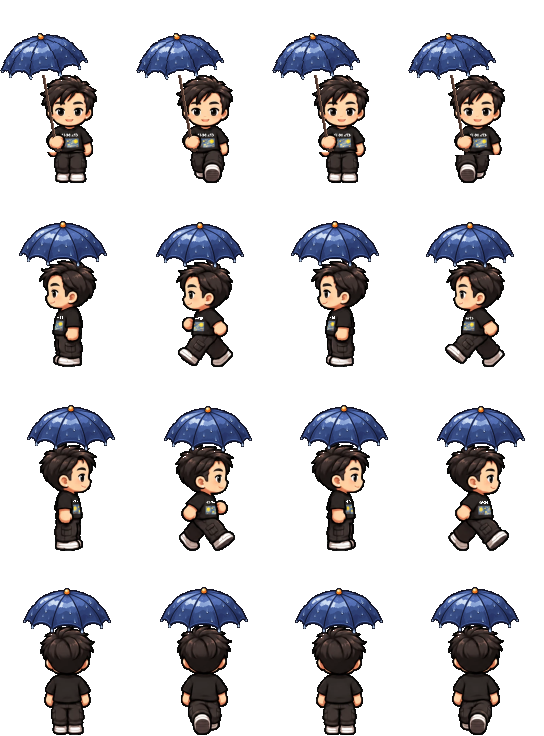
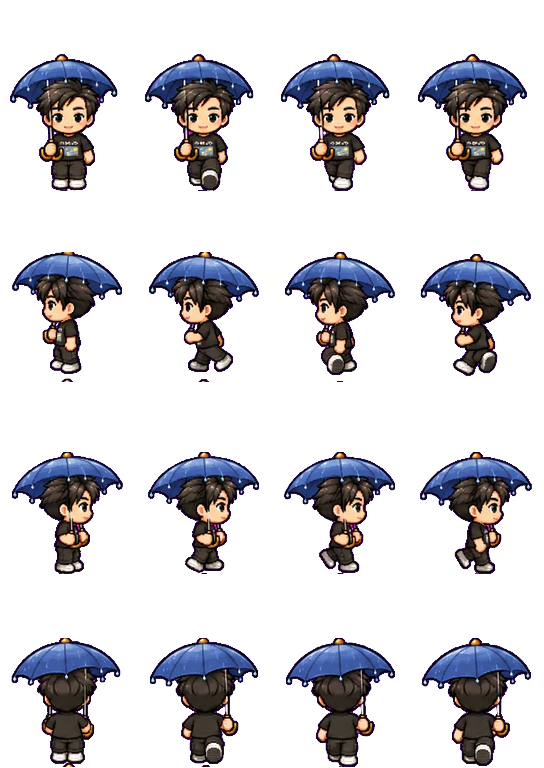
Guarda-chuva com a arte nova da Bella e do Weng; beijo de branco aguardando arte
- bella/weng-casual-umb: folhas desenhadas (fundo verde/magenta) importadas com
  scripts/import-umbrella-sheet.py: fundo removido, bordas limpas, mesma escala dos sprites
  normais, pés na mesma linha, quadros 136x192 na ordem frente/esquerda/direita/costas
- tira o gerador antigo de guarda-chuva e os sprites de beijo de branco montados por script;
  os nomes bella/weng-kiss-branco ficam reservados (entram quando a arte chegar)

Claude-Session: https://claude.ai/code/session_01PDyLU6Huw5amytFREh1vA2

diff --git a/src/config/assetManifest.ts b/src/config/assetManifest.ts
@@ -43,8 +43,8 @@ export const ASSETS: AssetEntry[] = [
   char('CHAR-017', 'bella-praia', 'characters/bella-praia.png', 136),
   char('CHAR-018', 'bella-branco', 'characters/bella-branco.png', 136),
   // segurando o guarda-chuva (chuva do primeiro encontro): quadros mais altos, a cobertura cabe em cima
-  { id: 'CHAR-019', key: 'bella-casual-umb', file: 'assets/characters/bella-casual-umb.png', kind: 'spritesheet', frameWidth: 136, frameHeight: 184 },
-  { id: 'CHAR-020', key: 'weng-casual-umb', file: 'assets/characters/weng-casual-umb.png', kind: 'spritesheet', frameWidth: 136, frameHeight: 184 },
+  { id: 'CHAR-019', key: 'bella-casual-umb', file: 'assets/characters/bella-casual-umb.png', kind: 'spritesheet', frameWidth: 136, frameHeight: 192 },
+  { id: 'CHAR-020', key: 'weng-casual-umb', file: 'assets/characters/weng-casual-umb.png', kind: 'spritesheet', frameWidth: 136, frameHeight: 192 },
   // Sentados (2 quadros: olhos abertos / fechados)
   { id: 'CHAR-031', key: 'bella-sit', file: 'assets/characters/bella-sit.png', kind: 'spritesheet', frameWidth: 136, frameHeight: 136 },
   { id: 'CHAR-032', key: 'weng-sit', file: 'assets/characters/weng-sit.png', kind: 'spritesheet', frameWidth: 136, frameHeight: 136 },
@@ -200,9 +200,8 @@ export const ASSETS: AssetEntry[] = [
   ),
   { id: 'CHAR-K1', key: 'bella-kiss', file: 'assets/characters/bella-kiss.png', kind: 'image' },
   { id: 'CHAR-K2', key: 'weng-kiss', file: 'assets/characters/weng-kiss.png', kind: 'image' },
-  // olhos fechados com a roupa branca (virada em Cabo Frio): scripts/make-kiss-outfit.py
-  { id: 'CHAR-K3', key: 'bella-kiss-branco', file: 'assets/characters/bella-kiss-branco.png', kind: 'image' },
-  { id: 'CHAR-K4', key: 'weng-kiss-branco', file: 'assets/characters/weng-kiss-branco.png', kind: 'image' },
+  // olhos fechados com a roupa branca (virada em Cabo Frio): entram quando a arte chegar
+  ...(['bella', 'weng'] as const).map((w, i): AssetEntry => ({ id: `CHAR-K${3 + i}`, key: `${w}-kiss-branco`, file: `assets/characters/${w}-kiss-branco.png`, kind: 'image' })),
   { id: 'OBJ-040', key: 'rua-carro-vermelho', file: 'assets/objects/rua-carro-vermelho.png', kind: 'image' },
   { id: 'OBJ-030', key: 'prop-umbrella-stand', file: 'assets/objects/umbrella-stand.png', kind: 'image' },
   { id: 'OBJ-031', key: 'prop-umbrella-stand-empty', file: 'assets/objects/umbrella-stand-empty.png', kind: 'image' },

diff --git a/scripts/import-umbrella-sheet.py b/scripts/import-umbrella-sheet.py
@@ -1,0 +1,92 @@
+"""Importa uma folha "segurando guarda-chuva" desenhada à parte (fundo de cor sólida, grade de
+quadros) pro formato do jogo: 4x4 quadros de 136x192 (frente, esquerda, direita, costas), fundo
+transparente, mesma escala dos sprites normais e os pés na mesma linha.
+
+Uso: import-umbrella-sheet.py <entrada> <saida.webp> <cor-fundo r,g,b> <escala> <linhas> <ordem>
+  ordem: índice da linha da entrada pra frente,esquerda,direita,costas (ex.: 0,1,2,3)
+"""
+import sys
+from PIL import Image
+import numpy as np
+
+src, out, bg, scale, nrows, order = sys.argv[1:7]
+bg = np.array([float(v) for v in bg.split(',')])
+scale, nrows = float(scale), int(nrows)
+order = [int(v) for v in order.split(',')]
+FW, FH, BASE = 136, 192, 190
+
+rgb = np.array(Image.open(src).convert('RGB')).astype(float)
+dist = np.sqrt(((rgb - bg) ** 2).sum(2))
+alpha = np.clip((dist - 40) / 50, 0, 1)
+# tira a cor do fundo que vazou nas bordas (des-mistura)
+a3 = np.maximum(alpha, 1e-3)[..., None]
+clean = np.clip((rgb - (1 - alpha[..., None]) * bg) / a3, 0, 255)
+# borda: o que sobrou da cor do fundo (rosa-magenta ou verde) some, sem mexer no resto do desenho
+edge = alpha < 0.5
+for _ in range(4):
+    e = edge.copy()
+    e[1:] |= edge[:-1]; e[:-1] |= edge[1:]; e[:, 1:] |= edge[:, :-1]; e[:, :-1] |= edge[:, 1:]
+    edge = e
+R, G, B = clean[..., 0], clean[..., 1], clean[..., 2]
+if bg[1] > bg[0] and bg[1] > bg[2]:  # fundo verde
+    spill = edge & (G > R + 12) & (G > B + 12)
+    clean[..., 1] = np.where(spill, np.maximum(R, B), G)
+else:  # fundo magenta
+    spill = edge & (R > G + 30) & (B > G + 30) & (np.abs(R - B) < 70)
+    low = np.minimum(R, B)
+    clean[..., 0] = np.where(spill, np.minimum(R, G + (low - G) * 0.25), R)
+    clean[..., 2] = np.where(spill, np.minimum(B, G + (low - G) * 0.6), B)
+rgba = np.dstack([clean, alpha * 255]).astype(np.uint8)
+solid = alpha > 0.5
+H, W = solid.shape
+
+
+def runs(p, minlen):
+    r, s = [], None
+    for i, v in enumerate(p > 0):
+        if v and s is None:
+            s = i
+        if not v and s is not None:
+            if i - s >= minlen:
+                r.append((s, i))
+            s = None
+    if s is not None:
+        r.append((s, len(p)))
+    return r
+
+
+cols = runs(solid.sum(0), 20)
+assert len(cols) == 4, cols
+prof = solid.sum(1)
+cuts = [0] + [int(np.argmin(prof[int(i * H / nrows) - 30:int(i * H / nrows) + 30])) + int(i * H / nrows) - 30 for i in range(1, nrows)] + [H]
+bands = [(cuts[i], cuts[i + 1]) for i in range(nrows)]
+
+sheet = Image.new('RGBA', (FW * 4, FH * 4))
+for gr, sr in enumerate(order):
+    y0, y1 = bands[sr]
+    info = []
+    for (x0, x1) in cols:
+        m = solid[y0:y1, x0:x1]
+        ys = np.where(m.any(1))[0]
+        top, bot = ys[0], ys[-1]
+        # centro do corpo pelas pernas (o guarda-chuva fica fora da conta)
+        legs = m[bot - int((bot - top) * 0.22):bot + 1]
+        xs = np.where(legs.any(0))[0]
+        info.append(((xs[0] + xs[-1]) / 2, bot))
+    cx = np.mean([i[0] for i in info])
+    bottom = max(i[1] for i in info)
+    for gc, (x0, x1) in enumerate(cols):
+        cell = Image.fromarray(rgba[y0:y1, x0:x1]).convert('RGBa')
+        w, h = cell.size
+        cell = cell.resize((round(w * scale), round(h * scale)), Image.LANCZOS).convert('RGBA')
+        a = np.array(cell)
+        al = a[..., 3].astype(float)
+        a[..., 3] = np.where(al < 90, 0, np.where(al > 165, 255, al)).astype(np.uint8)
+        cell = Image.fromarray(a)
+        ox = round(FW / 2 - cx * scale)
+        oy = round(BASE - bottom * scale)
+        frame = Image.new('RGBA', (FW, FH))
+        frame.paste(cell, (ox, oy), cell)
+        sheet.alpha_composite(frame, (gc * FW, gr * FH))
+sheet.save(out, lossless=True, quality=100, method=6)
+print('ok', out, 'bandas', bands)
